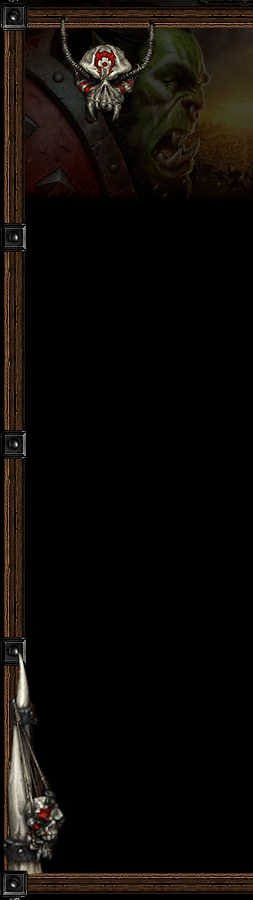
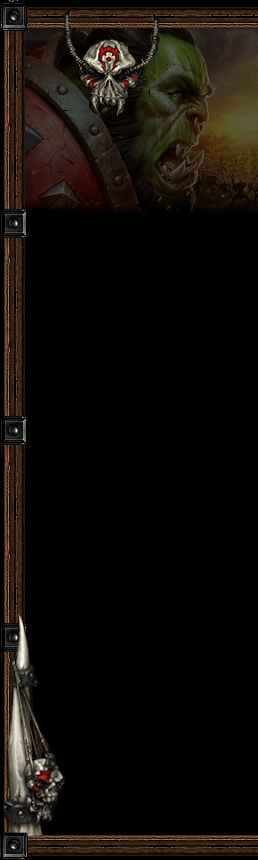
ajout curseur sur bois et pierre + sharknado

Changed region(s): [[0.0, 0.0, 1.0, 0.3326], [0.0, 0.4233, 1.0, 1.0], [0.9684, 0.0605, 0.996, 0.0907]]

diff --git a/IdleWarcraft.js b/IdleWarcraft.js
@@ -354,8 +354,6 @@ Affichage();
 }
 
 
-
-
 /*  Affichage armée */
 
 function affichageArmee() {
@@ -369,6 +367,48 @@ function affichageArmee() {
 		} 						
 }
 setInterval(affichageArmee, 2000); /* raffraichi l'affichage de la case armée */
+
+
+/* EVENT SHARKNADO */
+
+function sharknado() {
+	var shark = document.createElement("div");			// Création d'une nouvelle div pour la tornade
+	document.body.insertBefore(shark, jeu);				// Insérer la div avant "jeu"
+	setTimeout(function(){ shark.style.transform = "translateX(600px)"; }, 5000) // Fixer la position de la tornade à la fin de l'animation CSS
+	shark.classList.add("tornado");						// Ajouter le class "tornado" : Lancer l'anim de déplacement CSS
+	var sharkLife = 10;									// Vie de la tornade
+	var sharkDamage = setInterval(function(){			// DEGATS DE LA TORNADE PAR SECONDE !
+		if (armee > 0) {
+			armee--;
+		} 
+		if (ressourcePierre > 0) {
+			ressourcePierre = parseInt((ressourcePierre-(ressourcePierre*5/100)));  // Enlever 5% de la pierre
+		}
+		if (ressourceBois > 0) {
+			ressourceBois = parseInt((ressourceBois-(ressourceBois*5/100))); 		// Enlever 5% du bois
+		}
+	Affichage();
+	}, 1000); // chaque seconde
+
+	shark.addEventListener('click', function destroyTornado() {	// Similaire au "onclick" sauf qu'il est valable en dehors de la fonction -> éxécute "destroyTornado" quand on clique sur la tornade.
+		
+		var newDiv = document.createElement("div");		// Créer une nouvelle div
+			document.body.insertBefore(newDiv, jeu);	// Insérer la nouvelle div avant "jeu"
+			newDiv.style.left = e.pageX + 'px';			// Positionner en X la div selon le curseur du joueur
+			newDiv.style.top = e.pageY + 'px';			// Positionner en Y la div selon le curseur du joueur
+			var fading = setTimeout(function() { newDiv.remove(); }, 900); // Démarrer le timer pour supprimer la div
+			newDiv.className += " ressourceMove";		// Ajoute la class "ressourceMove", ce qui lance l'animation CSS
+
+
+		sharkLife--												// Retirer 1 pv à la tornade
+		if (sharkLife <= 0) {									// Si la tornade tombe à 0 pv
+			clearInterval(sharkDamage);							// Arrêt des dégats
+			setTimeout(function(){ shark.remove(); }, 3000);	// Suppression de la div après l'animation CSS 
+			shark.classList.add("tornadoFade");					// Animation CSS de la disparition progressive de la tornade
+		}
+	})
+}
+
 
 
 

diff --git a/IdleWarcraft.css b/IdleWarcraft.css
@@ -30,7 +30,6 @@ body {
 	background-color: grey;
 	margin: 0;
 	font-size: 20px;
-	cursor: url(./Images/cursor1.png),pointer;
 
 }
 
@@ -69,7 +68,7 @@ h2 {	/* Titre Ressources et Bonus */
 }
 
 #HudBonus {
-	
+	z-index: 900;
 	position: absolute;
 	left: 0;
 	height: 900px;
@@ -351,19 +350,20 @@ padding-top: 5px;
 
 }
 
-.boutons { /* Boutons d'améliorations - achats */
-
-
+.wood {
+	cursor: url(./Images/axe.png),pointer;
 }
 
-.infos { /* Texte d'information des compteurs */
+.wood:active {
+	cursor: url(./Images/axeActive.png),pointer;
 }
 
-#btnClickManuelBois { /* Le bouton principal Clicker Bois */
-
+.rock {
+	cursor: url(./Images/pickaxe.png),pointer;
 }
 
-#btnClickManuelBois:hover { /* Lorque la souris passe dessus */
+.rock:active {
+	cursor: url(./Images/pickaxeActive.png),pointer;
 }
 
 .boutonspierre {/*position des boutons Pierre */
@@ -414,6 +414,34 @@ h5 { /* Texte animation ajout Bois & Pierre */
 	0% { transform: translateY(0px); }
 
 	100% { transform: translateY(-100px); }
+}
+
+.tornado {
+	position: absolute;
+	z-index: 888;
+	top: 25%;
+	left: 0%;
+	width: 480px;
+	height: 360px;
+	background-image: url(./Images/sharknado.gif);
+	background-repeat: no-repeat;
+	animation-name: sharknado;
+	animation-duration: 5s;
+}
+
+.tornadoFade {
+	animation-name: sharknadoFade;
+	animation-duration: 3s;
+}
+
+@keyframes sharknado {
+	0% { transform: translateX(0px); }
+	100% { transform: translateX(600px); }
+}
+
+@keyframes sharknadoFade {
+	0% { opacity: 1; }
+	100% { opacity: 0; }
 }
 
 /* Liste ID CSS*/

diff --git a/IdleWarcraft.html b/IdleWarcraft.html
@@ -14,7 +14,7 @@
 
 		<div id="HudBonus">
 
-			<div id="HautHudBonus"><h2>Vos Bonus</h2></div>
+			<div id="HautHudBonus"><h2>Bonus</h2></div>
 			
 
 			<div id="BasHudBonus">
